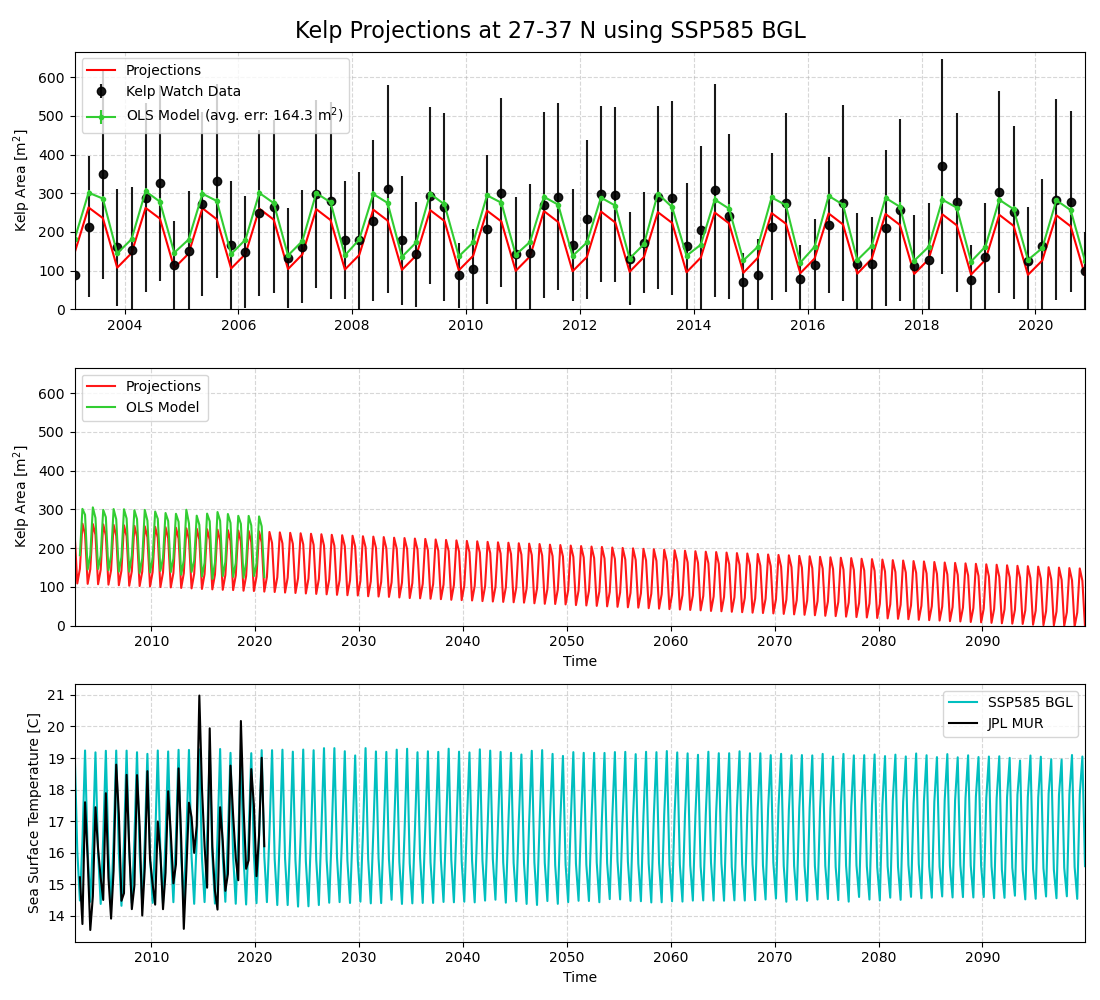
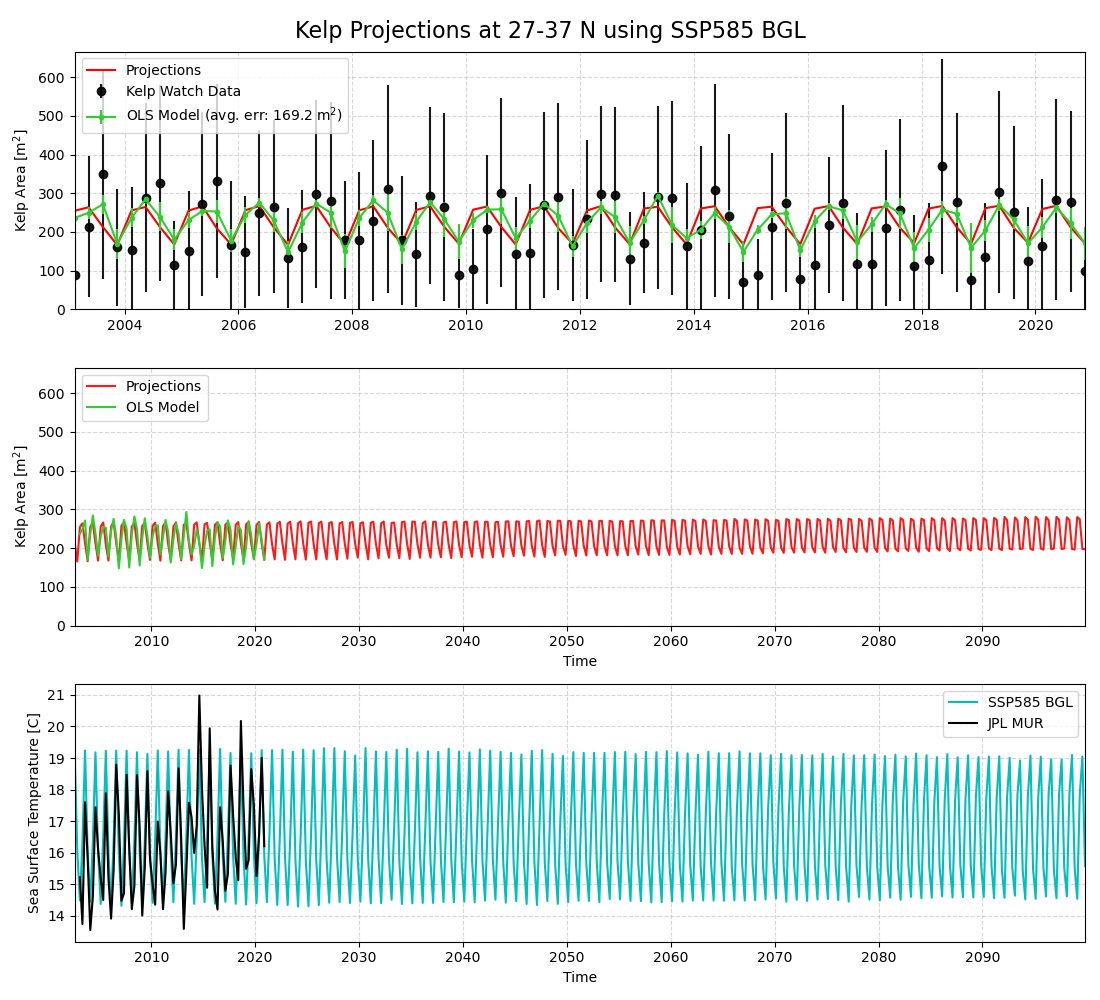
updated filename of inputs, new climate model projections

Changed region(s): [[0.0618, 0.496, 0.9891, 0.62], [0.0618, 0.186, 0.9891, 0.279], [0.2782, 0.093, 0.3091, 0.124]]

diff --git a/regressors_predict.py b/regressors_predict.py
@@ -16,7 +16,7 @@ if __name__ == "__main__":
                         default="Data/kelp_metrics_27_37.pkl")
     parser.add_argument('-fs', '--file_path_sim', type=str, 
                         help='path to input metrics file', 
-                        default="Data/kelp_metrics_sim_27_37_ssp585_BGL.pkl")
+                        default="Data/kelp_metrics_sim_27_37_CanESM5_ssp585_BGL.pkl")
     #model type
     parser.add_argument('-m', '--model', type=str, 
                         help='model type (OLS or MLP)',
@@ -42,7 +42,7 @@ if __name__ == "__main__":
     # construct features
     features = [
         time, # days, 0-365*20
-        data['sunlight'],
+        data['sunlight'], # SUNLIGHT
         data['temp_lag']-273.15,
         data['temp_lag2']-273.15,
         np.ones(len(time)) # w_1 * x_1 + w_2 * x_2 + ... + w_n * x_n + b
@@ -50,7 +50,7 @@ if __name__ == "__main__":
 
     feature_names = [
         'time',
-        'sunlight',
+        'sunlight', # SUNLIGHT
         'temp_lag',
         'temp_lag2',
         'bias'
@@ -79,7 +79,7 @@ if __name__ == "__main__":
     # construct features
     features = [
         time_sim, # days
-        data_sim['sunlight'],
+        data_sim['sunlight'], # SUNLIGHT
         data_sim['temp_lag'],
         data_sim['temp_lag2'],
         np.ones(len(time_sim)) # w_1 * x_1 + w_2 * x_2 + ... + w_n * x_n + b
@@ -87,14 +87,13 @@ if __name__ == "__main__":
 
     feature_names = [
         'time',
-        'sunlight',
+        'sunlight', # SUNLIGHT
         'temp_lag',
         'temp_lag2',
         'bias'
     ]
 
     X_test = np.array(features).T
-
 
     # remove nans
     nanmask_test = np.isnan(data_sim['temp_lag']) | np.isnan(data_sim['temp_lag2'])
@@ -133,7 +132,7 @@ if __name__ == "__main__":
         # fit a linear model to the data with OLS
         # 500 - 22930.63165755
 
-        mlp = MLPRegressor(hidden_layer_sizes=(8,), max_iter=100, alpha=0.001, solver='adam', verbose=True)
+        mlp = MLPRegressor(hidden_layer_sizes=(4,), max_iter=100, alpha=0.001, solver='adam', verbose=True)
         mlp.fit(Xp, y)
         y_ols_train = mlp.predict(Xp)
         y_ols_test = mlp.predict(Xp_test)
@@ -249,7 +248,9 @@ if __name__ == "__main__":
     tree = cKDTree(np.array([time_sim, data_sim['lat'][~nanmask_test], data_sim['lon'][~nanmask_test]]).T)
     def predict_kelp(time, lat, lon):
         dist, idx = tree.query(np.array([time, lat, lon]).T)
+        # SUNLIGHT
         X_test = np.array([time, data_sim['sunlight'][idx], data_sim['temp_lag'][idx], data_sim['temp_lag2'][idx], 1])
+        #X_test = np.array([time, data_sim['temp_lag'][idx], data_sim['temp_lag2'][idx], 1])
         return np.dot(X_test, coeffs)    
 
     # days since min date
@@ -264,6 +265,7 @@ if __name__ == "__main__":
     latlon = np.unique(latlon, axis=0)
 
     kelp = np.zeros((len(times), len(latlon)))
+    print(len(times), len(latlon))
     for i, t in tqdm(enumerate(times)):
         for j, ll in enumerate(latlon):
             kelp[i,j] = predict_kelp(t, ll[0], ll[1])
@@ -280,7 +282,6 @@ if __name__ == "__main__":
     #     quarter     (time) int16 1 2 3 4 1 2 3 4 1 2 3 4 ... 1 2 3 4 1 2 3 4 1 2 3 4
     #     biomass     (time, station) float64 ...
 
-
     ds = xr.Dataset(
         data_vars = {
             'latitude': (['station'], latlon[:,0]),
@@ -294,6 +295,3 @@ if __name__ == "__main__":
         }
     )
     ds.to_netcdf(args.file_path_sim.replace('.pkl', '_regressors.nc'))
-
-    # email peter how to get:
-    # how to get four ecopro projections before mid-feb

diff --git a/trends_quarterly.py b/trends_quarterly.py
@@ -53,9 +53,12 @@ if __name__ == "__main__":
     parser.add_argument('-f', '--file_path', type=str, 
                         help='path to input metrics file', 
                         default="Data/kelp_metrics_27_37.pkl")
+    parser.add_argument('-t', '--temp_key', type=str,
+                        help='key for temperature data (temp, temp_lag, temp_lag2)',
+                        default='temp_lag')
     args = parser.parse_args()
 
-    region = f"{args.file_path.split('_')[2]}-{args.file_path.split('_')[3]}N"
+    region = f"{args.file_path.split('_')[2]}-{args.file_path.split('_')[3]}N".replace('.pkl','')
 
     # load data from disk
     with open(args.file_path, 'rb') as f:
@@ -88,22 +91,22 @@ if __name__ == "__main__":
     
     # loop over each quarter and compute the mean and std
     for i, t in enumerate(utime):
-        mask = (time == t) & (~np.isnan(data['temp_lag']))
+        mask = (time == t) & (~np.isnan(data[args.temp_key]))
         quarterly_kelp[i] = np.nanmean(data['kelp'][mask])
         quarterly_kelp_std[i] = np.std(data['kelp'][mask])
-        quarterly_sst[i] = np.nanmean(data['temp_lag'][mask])
-        quarterly_sst_std[i] = np.std(data['temp_lag'][mask])
+        quarterly_sst[i] = np.nanmean(data[args.temp_key][mask]) 
+        quarterly_sst_std[i] = np.std(data[args.temp_key][mask])
 
     # remove first quarter for lag nan
-    quarterly_kelp = quarterly_kelp[1:]
-    quarterly_kelp_std = quarterly_kelp_std[1:]
-    quarterly_sst = quarterly_sst[1:]
-    quarterly_sst_std = quarterly_sst_std[1:]
+    quarterly_kelp = quarterly_kelp[2:]
+    quarterly_kelp_std = quarterly_kelp_std[2:]
+    quarterly_sst = quarterly_sst[2:]
+    quarterly_sst_std = quarterly_sst_std[2:]
 
     # float presentation of time
     starting_year = int(f"{time_dt.min().astype('datetime64[Y]')}")
     quarterly_time = starting_year + utime/365.
-    quarterly_time = quarterly_time[1:]
+    quarterly_time = quarterly_time[2:]
 
     # measure a seasonal trend line with OLS
     X = np.array([quarterly_time, np.ones(len(quarterly_time))]).T
@@ -111,7 +114,7 @@ if __name__ == "__main__":
     coeffs = res.params
     y_kelp = np.dot(X, coeffs)
     # print slope +- error
-    print(f"Slope of kelp line: {coeffs[0]:.2f} +- {res.bse[0]:.2f} m^2/year")
+    print(f"\nSlope of kelp line: {coeffs[0]:.2f} +- {res.bse[0]:.2f} m^2/year")
     # monte carlo to find year at which kelp reaches 0
     qtimes = []
     for i in range(10000):
@@ -128,6 +131,8 @@ if __name__ == "__main__":
     y_sst = np.dot(X, coeffs_sst)
     # print slope +- error
     print(f"Slope of sst line: {coeffs_sst[0]:.2f} +- {res.bse[0]:.2f} C/year")
+    # print correlation coefficient
+    print(f"Correlation coefficient: {np.corrcoef(quarterly_sst, quarterly_kelp)[0,1]:.2f} of {args.temp_key} and Kelp")
 
     # measure yearly trend between sst and kelp
     X = np.array([quarterly_sst, np.ones(len(quarterly_sst))]).T

diff --git a/README.md b/README.md
@@ -37,7 +37,6 @@ The metrics script will create a new file called `kelp_metrics.pkl` which contai
 
 ## Analysis Scripts
 
-
 | Script Name | Description | 
 | ----------- | ----------- |
 | `create_interpolated_sst.py` | Interpolate the monthly SST data onto the same grid as the kelp data and create a new file called: `kelp_interpolated_data.pkl` |
@@ -60,7 +59,9 @@ The metrics script will create a new file called `kelp_metrics.pkl` which contai
 | `regressors_optimize.py` | Hyperparameter optimization for regression algorithms using scikit-learn | 
 | `regressors_train.py` | Train various regression models to predict the abundance of Kelp using ordinary least-squares, multi-layer perceptron and random forest with features from `kelp_metrics.pkl`. |
 | ![]() | ![](Data/kelp_metrics_27_37_regressors.png) |
-| `regressors_predict.py` | ![](Data/kelp_OLS_sim_27_37_ssp126_BGL_regressors.png) |
+| `regressors_predict.py` |  Use the trained regression models to predict the abundance of Kelp using features from `kelp_metrics_sim.pkl`. |
+| | ![](Data/kelp_OLS_sim_27_37_CanESM5_ssp126_BGL_regressors.png) | 
+
 
 
 # Tests for statistical significance
@@ -73,93 +74,42 @@ The metrics script will create a new file called `kelp_metrics.pkl` which contai
 | [Mann.Kendall](https://docs.scipy.org/doc/scipy/reference/generated/scipy.stats.mstats.kendalltau.html) | 0.164        | 0.000        | 0.080        |
 | [Linregress](https://docs.scipy.org/doc/scipy/reference/generated/scipy.stats.linregress.html)  | 0.149        | 0.001        | 0.053        | 
 
-Signficant p-vals are less than ~0.05-0.1, where smaller values are more significant. These values are measured in the `trends_annual.py` script.
+Signficant trends occur when p-vals are less than ~0.05-0.1, where smaller values are more significant. These values are measured in the `trends_annual.py` script.
 
 | Quarterly P-vals| SST vs. Kelp | Time vs. SST | Time vs. Kelp |
 |-----------------|--------------|--------------|---------------|
-| Pearsonr        | 0.000        | 0.033        | 0.166         |
-| Kendalltau      | 0.009        | 0.051        | 0.213         |
-| Spearmanr       | 0.003        | 0.041        | 0.202         | 
-| Mann.Kendall    | 0.009        | 0.051        | 0.213         |
-| Linregress      | 0.000        | 0.033        | 0.166         |
+| Pearsonr        | 0.008        | 0.016        | 0.557         |
+| Kendalltau      | 0.083        | 0.016        | 0.493         |
+| Spearmanr       | 0.038        | 0.013        | 0.434         | 
+| Mann.Kendall    | 0.083        | 0.016        | 0.493         |
+| Linregress      | 0.008        | 0.016        | 0.557         |
 
 One thing these tables don't show is the direction of the correction but from the quarterly plots above we see an inverse trend between Kelp and SST from a quarter before. The trend implies some at some temperature around ~22C the kelp abundance reaches 0.
 
 | Quarterly P-vals | SST_lag vs. Kelp | Time vs. SST_lag | Time vs. Kelp |
 |------------------|------------------|------------------|--------------|
-| Pearsonr         | 0.000            | 0.094            | 0.295        |
-| Kendalltau       | 0.000            | 0.092            | 0.346        |
-| Spearmanr        | 0.000            | 0.065            | 0.333        |
-| Mann.Kendall     | 0.000            | 0.092            | 0.346        |
-| Linregress       | 0.000            | 0.094            | 0.295        |
-
-### Pearson's correlation:
-- Measures the linear relationship between two continuous variables 
-- Produces a correlation coefficient (r) from -1 to +1
-   - +1 is a perfect positive linear relationship
-   - -1 is a perfect negative linear relationship 
-- Also provides a p-value to test if the correlation is statistically significant
-
-### Kendall's tau:
-- Nonparametric test that looks at concordant and discordant pairs
-- Concordant pairs are when both values increase or decrease together 
-- Discordant pairs are when one value increases while the other decreases
-- Tau coefficient indicates the net correlation of the concordant/discordant pairs
-- Tau close to +1/-1 indicates a strong monotonic trend
-
-### Mann-Kendall: 
-- Nonparametric test specifically for monotonic upward or downward trends over time
-- Compares each data point to all subsequent points 
-- Positive differences indicate an upward trend, negative differences indicate downward 
-- Statistical test on these differences determines if the trend is significant
-
-
-### Spearman's Rank Correlation:
-- Nonparametric measure of correlation between two variables
-- Assesses monotonic relationship rather than linear 
-- Converts data values to ranks before calculating coefficient
-- Coefficient (r) ranges from -1 to +1
-- Positive r means variables increase together 
-- Negative r means one increases as other decreases
-- r near zero means little to no association
-- r of +1/-1 indicates perfect monotonic relationship
-- Tests significance of r using a hypothesis test
-- Produces a p-value to determine if correlation is significant
-- Useful for non-normal distributions or nonlinear relationships
-- Simple to calculate and interpret
-- Less sensitive to outliers compared to Pearson correlation
-
-### Linear Regression analysis:
-- Fits a straight line model to the data 
-- Tests if slope coefficient is significantly different than zero
-- Slope significantly greater than zero indicates increasing trend
-- Slope significantly less than zero indicates decreasing trend
+| Pearsonr         | 0.000            | 0.059            | 0.557        |
+| Kendalltau       | 0.000            | 0.031            | 0.493        |
+| Spearmanr        | 0.000            | 0.028            | 0.434        |
+| Mann.Kendall     | 0.000            | 0.031            | 0.493        |
+| Linregress       | 0.000            | 0.059            | 0.557        |
 
 # Temperature vs. Kelp Abundance per Region
 
-The largest correlations with kelp abundace are the temperatures with a one quarter lag. The kelp decreases to 0 at an average temperature of ~23.47 +- 2.11C.
+The largest correlations with kelp abundace are the temperatures with a one quarter lag. The kelp decreases to 0 at an average temperature of ~23-24C. 
 
-|  | 27 - 30N | 30 - 33N | 33 - 36N |
+|  | 27 - 32N | 32 - 37N | 27 - 37N |
 |-|-|-|-|
-| Correlation coefficient | -0.16 | 0.45 | 0.32 |  
-| Correlation coefficient for One Quater Lag | -0.78 | -0.64 | -0.82 |
-| Correlation coefficient for Two Quarter Lag | 0.03 | -0.52 | -0.32 |
+| Correlation coefficient for One Quater Lag | -0.80 | -0.78 | -0.83 |
 ||||
-| Slope of trend line (m^2/C) | -8.51 +- 6.32 | 15.70 +- 3.67 | 17.69 +- 6.27 |
 | Slope of trend line with one quater lag (m^2/C) | -42.40 +- 4.04 | -21.09 +- 3.04 | -36.10 +- 2.99 |
-| Slope of trend line with two quarters lag (m^2/C) | 1.51 +- 6.53 | -17.52 +- 3.45 | -11.58 +- 4.13 |
 ||||
-| Temperature when kelp abundance is zero (C) | 45.93 +- 1682.29 | 6.37 +- 5.29 | 4.66 +- 22.76 |
-| Temperature when kelp abundance is zero using a quarter lag (C) (T0) | 23.80 +- 3.04 | 26.12 +- 5.00 | 20.40 +- 2.10 |
-| Temperature when kelp abundance is zero using 2 quarters lag (C) | -137.90 +- 1423.19 | 27.84 +- 7.83 | 31.45 +- 127.13 |
+| Temperature when kelp abundance is zero using a quarter lag (C) (T0) | 23.49 +- 2.33 | 21.23 +- 3.09 | 22.36 +- 2.93 |
 ||||
-| Year at which avg. temp reaches 23.47 +- 2.11C | 2055.37 +- 17.89 | 2070.05 +- 21.60 | 2139.78 +- 32.90 |
-| Year at which avg. temp reaches T0 | 2058.10 +- 26.06 | 2097.48 +- 51.18 | 2091.29 +- 32.72 |
+| Year at which avg. temp reaches T0 | 2059.33 +- 20.50 | 2106.94 +- 51.45 | 2083.83 +- 35.07  |
+|![](Data/kelp_metrics_27_32_lag_correlation.png) | ![](Data/kelp_metrics_32_37_lag_correlation.png) | ![](Data/kelp_metrics_27_37_lag_correlation.png) |
+|![](Data/kelp_metrics_27_32_quarterly_lag.png) | ![](Data/kelp_metrics_32_37_quarterly_lag.png) | ![](Data/kelp_metrics_27_37_quarterly_lag.png) |
 
-| | | |
-|-|-|-|
-|![](Data/kelp_metrics_27_30_lag_correlation.png) | ![](Data/kelp_metrics_30_33_lag_correlation.png) | ![](Data/kelp_metrics_33_36_lag_correlation.png) |
-|![](Data/kelp_metrics_27_30_quarterly_lag.png) | ![](Data/kelp_metrics_30_33_quarterly_lag.png) | ![](Data/kelp_metrics_33_36_quarterly_lag.png) |
 
 # Predictions with Machine Learning
 
@@ -185,6 +135,31 @@ Even though the parameters individually may be correlated to the amount of kelp,
 | Sunlight [day]          | 0.304                   | 0.186              | 0.702               |
 | Temperature Lag         | -0.314                  | 0.420              | 0.194               |
 | Temperature Lag 2       | -0.172                  | 0.401              | 0.085               |
+
+
+### How to create a projection from new simulation data:
+
+Follow these steps to create a new linear regression model from Kelp Watch + MUR SST values and then project the model onto new simulation data.
+
+1) Download the temperature file to `Data/`
+
+2)	Interpolate + reformat simulation data onto same grid as Kelp
+
+    `python create_interpolated_sst_sim.py -c ssp126 -m CanESM5`
+
+3)	Estimate some spatial + timeseries metrics needed for the linear regression model
+
+    `python kelp_metrics_sim.py -c ssp126 -d BGL -l 27 -u 37 -m CanESM5`
+
+4)	Fit a linear regression model and perform a projection on 
+
+    `python regressors_predict.py -f Data/kelp_metrics_27_37.pkl -fs Data/kelp_metrics_sim_27_37_ssp126_BGL.pkl`
+
+| Without sunlight feature | With sunlight feature |
+|---|---|
+| ![](Data/kelp_OLS_sim_27_37_CanESM5_ssp585_BGL_regressors_nosunlight.png) | ![](Data/kelp_OLS_sim_27_37_GFDL-ESM4_ssp585_BGL_regressors.png) |
+
+In order to run without the sunlight feature search for `# SUNLIGHT` in `regressors_predict.py` and comment out the lines
 
 # Datasets
 
@@ -221,10 +196,3 @@ We use the [JPL MUR SST](https://podaac.jpl.nasa.gov/dataset/MUR-JPL-L4-GLOB-v4.
 GEBCO - https://www.gebco.net/data_and_products/gridded_bathymetry_data/ (sub-ice topo/bathy; 15 arc-second resolution)
 
 NOAA - https://www.ncei.noaa.gov/products/coastal-relief-model (Southern California Version 2; 1 arc-second resolution)
-
-
-## To Do
-- Projection results at each location
-- netcdf file of projection file (every location)
-- Compute T0 for N/S region
-- Update tables
